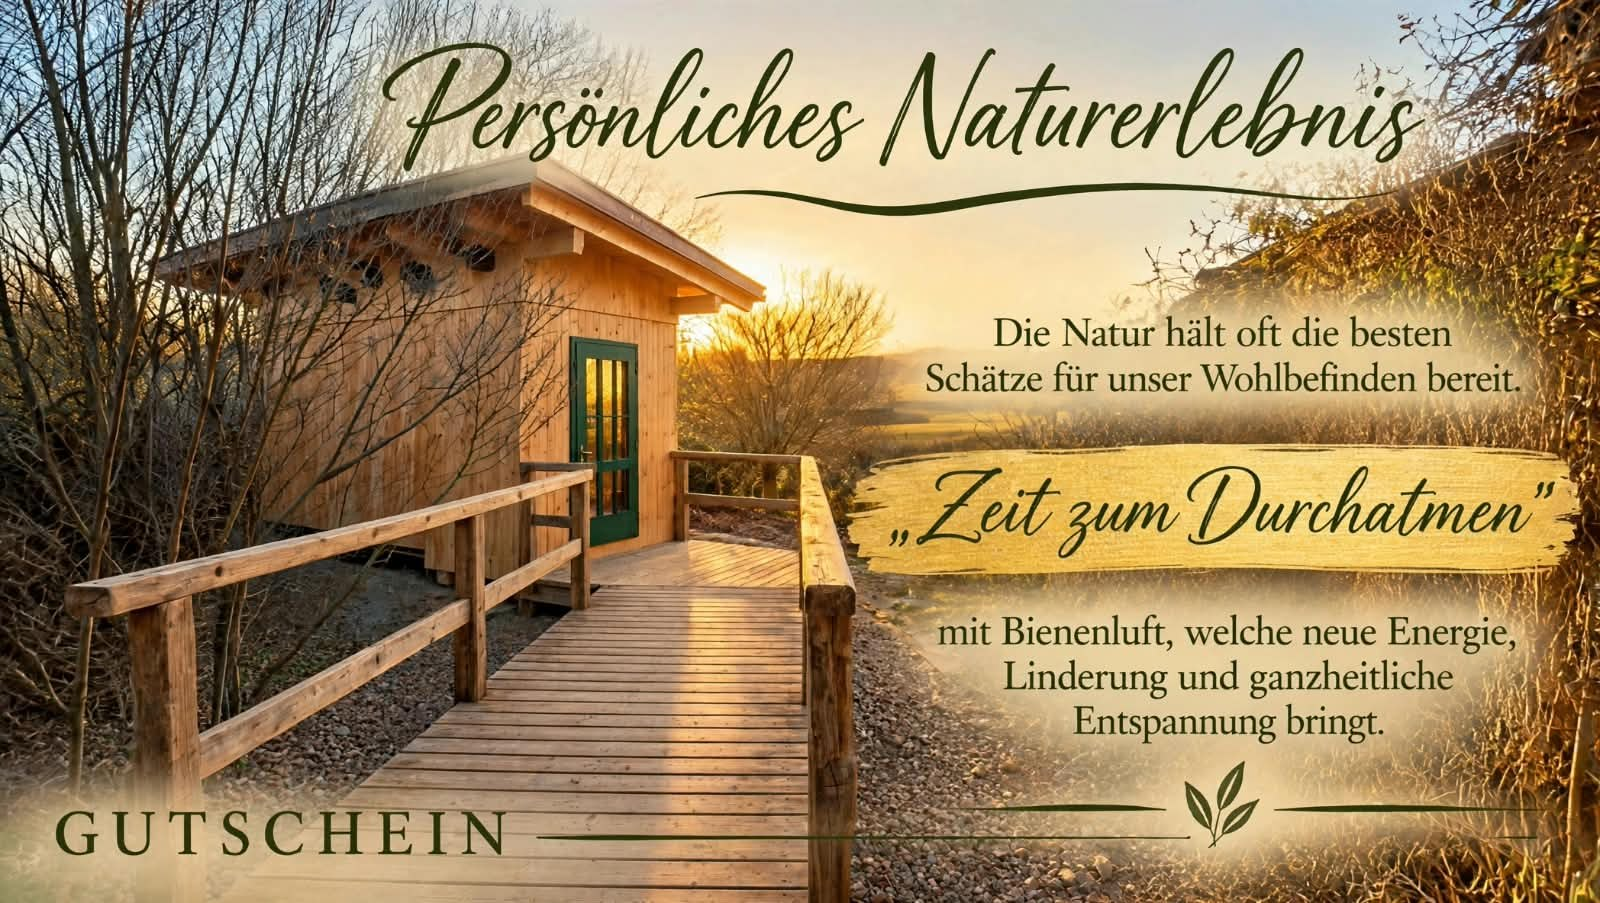
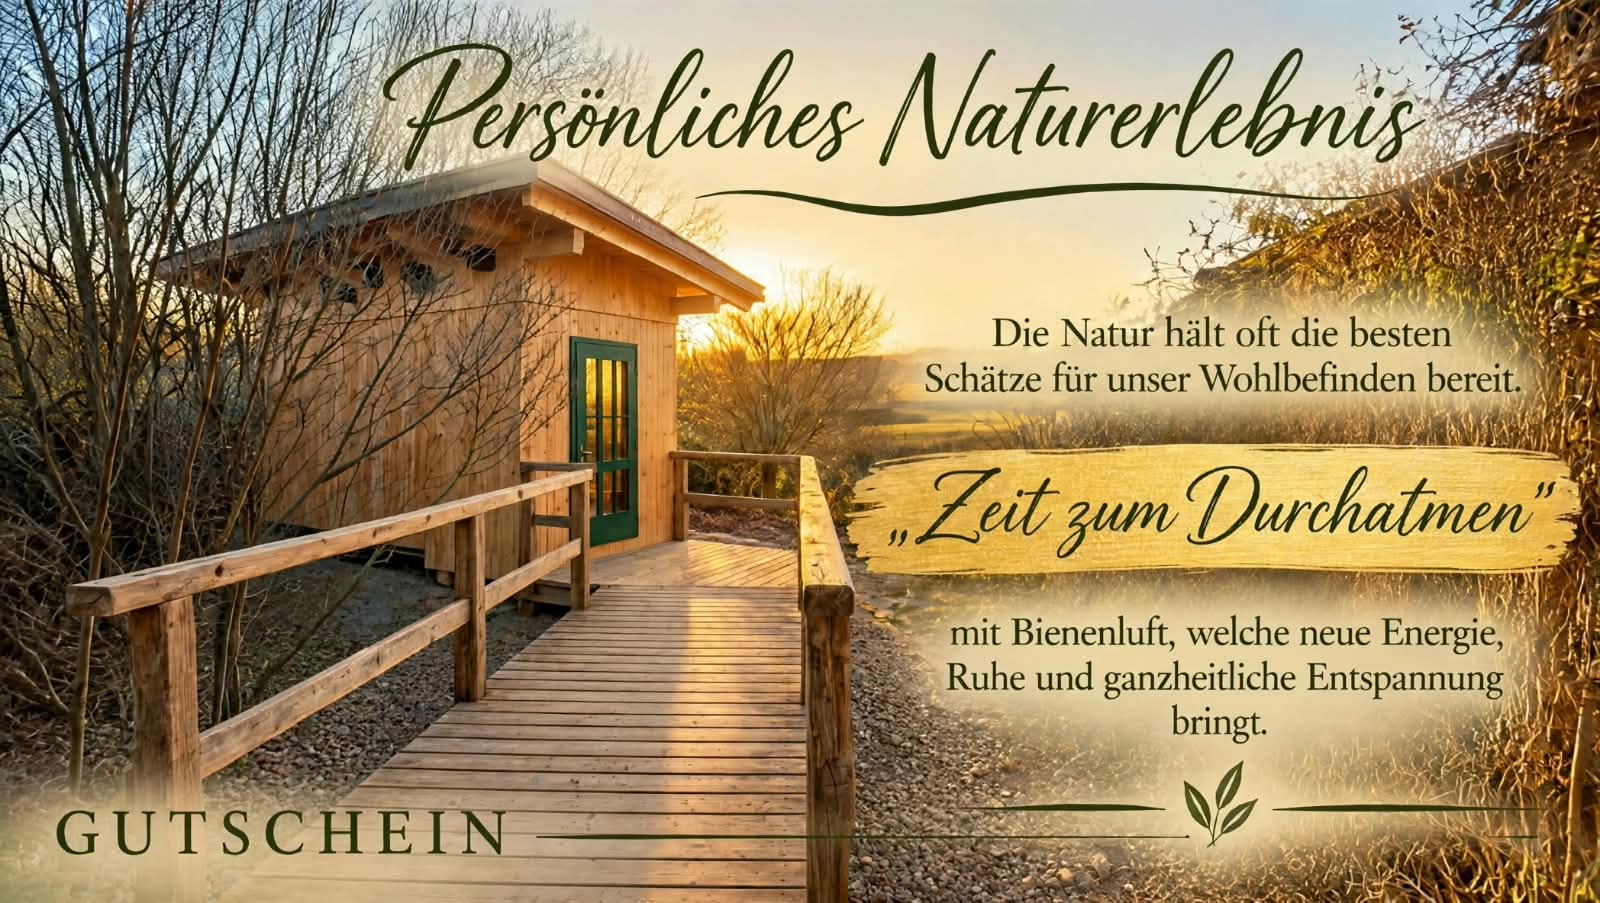
Gutschein: neue Vorderseite und Rückseite
Claude-Session: https://claude.ai/code/session_01PjVpx5cTxg7Czc7KLXHVXB

diff --git a/index.html b/index.html
@@ -268,14 +268,17 @@
         </div>
 
         <div class="voucher reveal">
-          <a href="img/fotos/gutschein-vorne.jpg" class="lb voucher-img"><img src="img/fotos/gutschein-vorne.jpg" alt="Gutschein „Persönliches Naturerlebnis – Zeit zum Durchatmen“ mit dem Bienenluft-Haus im Abendlicht" loading="lazy" width="1600" height="903"></a>
+          <div class="voucher-cards">
+            <a href="img/fotos/gutschein-vorne.jpg" class="lb voucher-img voucher-front"><img src="img/fotos/gutschein-vorne.jpg" alt="Gutschein Vorderseite: „Persönliches Naturerlebnis – Zeit zum Durchatmen“ mit dem Bienenluft-Haus im Abendlicht" loading="lazy" width="1600" height="903"></a>
+            <a href="img/fotos/gutschein-hinten.jpg" class="lb voucher-img voucher-back"><img src="img/fotos/gutschein-hinten.jpg" alt="Gutschein Rückseite: einzulösen während der Saison Mai bis August, gilt nur für Bienenluft, mit Kontaktdaten" loading="lazy" width="1600" height="903"></a>
+          </div>
           <div>
             <p class="kicker">Geschenkidee</p>
             <h3>Bienenluft-Gutschein</h3>
             <p>Schenken Sie „Zeit zum Durchatmen“ – ein persönliches Naturerlebnis in unserem Bienenluft-Haus.</p>
             <ul class="check-list">
               <li>Betrag <strong>frei wählbar</strong></li>
-              <li>Einlösbar für <strong>Bienenluft</strong> (nicht für Produkte)</li>
+              <li>Einlösbar für <strong>Bienenluft</strong> (nicht für Produkte), während der Saison</li>
               <li>Erhältlich bei uns – einfach per Telefon oder E-Mail anfragen</li>
             </ul>
             <a href="#kontakt" class="btn btn-honey">Gutschein anfragen</a>

diff --git a/css/style.css b/css/style.css
@@ -699,3 +699,9 @@ address { font-style: normal; margin-bottom: 1.5rem; line-height: 1.8; }
 .voucher .check-list li { color: #e8efe9; }
 .voucher .btn { margin-top: .6rem; }
 @media (max-width: 820px) { .voucher { grid-template-columns: 1fr; } .voucher-img { transform: none; } }
+
+.voucher-cards { position: relative; padding: 0 12% 22% 0; }
+.voucher-cards .voucher-back { position: absolute; right: 0; bottom: 0; width: 78%; transform: rotate(2.5deg); z-index: 1; }
+.voucher-cards .voucher-front { position: relative; z-index: 2; }
+.voucher-cards .voucher-back:hover { z-index: 3; transform: rotate(0) scale(1.02); }
+@media (max-width: 820px) { .voucher-cards .voucher-back { transform: rotate(2deg); } .voucher-cards .voucher-front { transform: rotate(-1.5deg); } }
